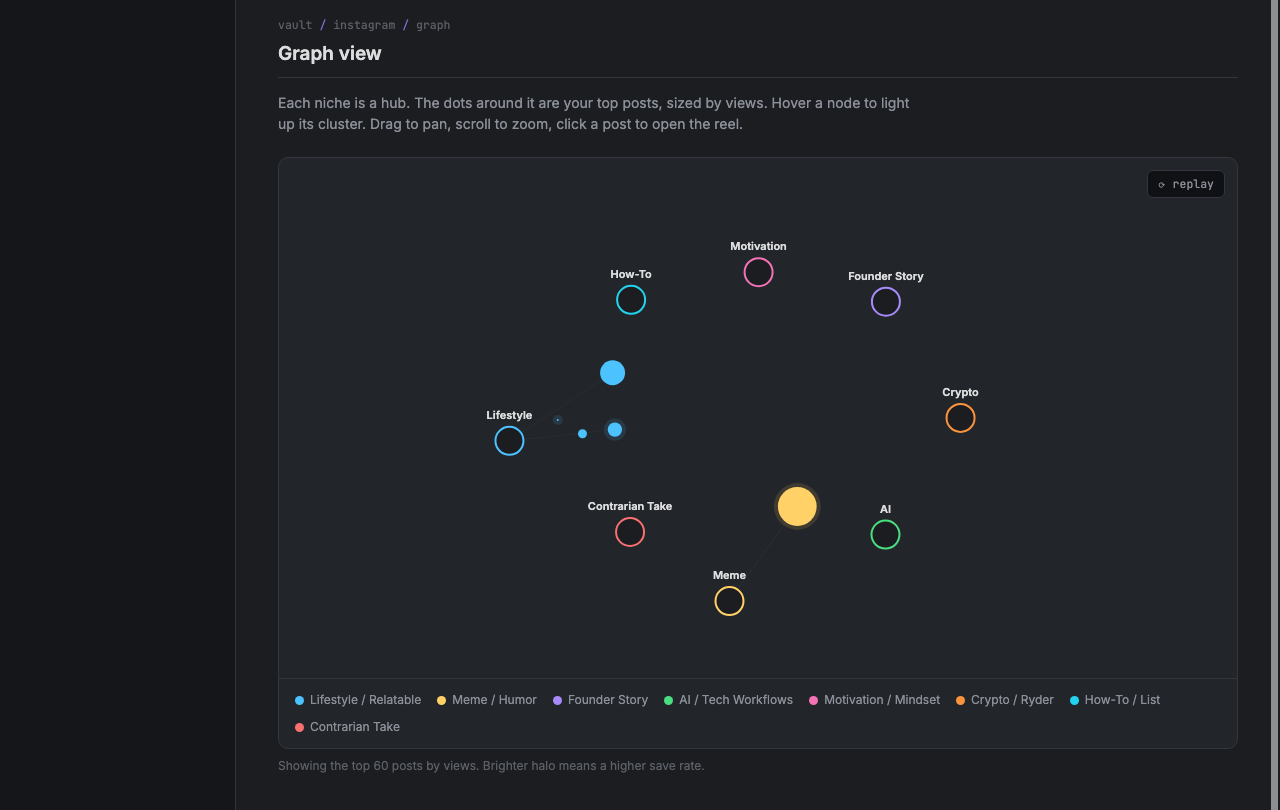
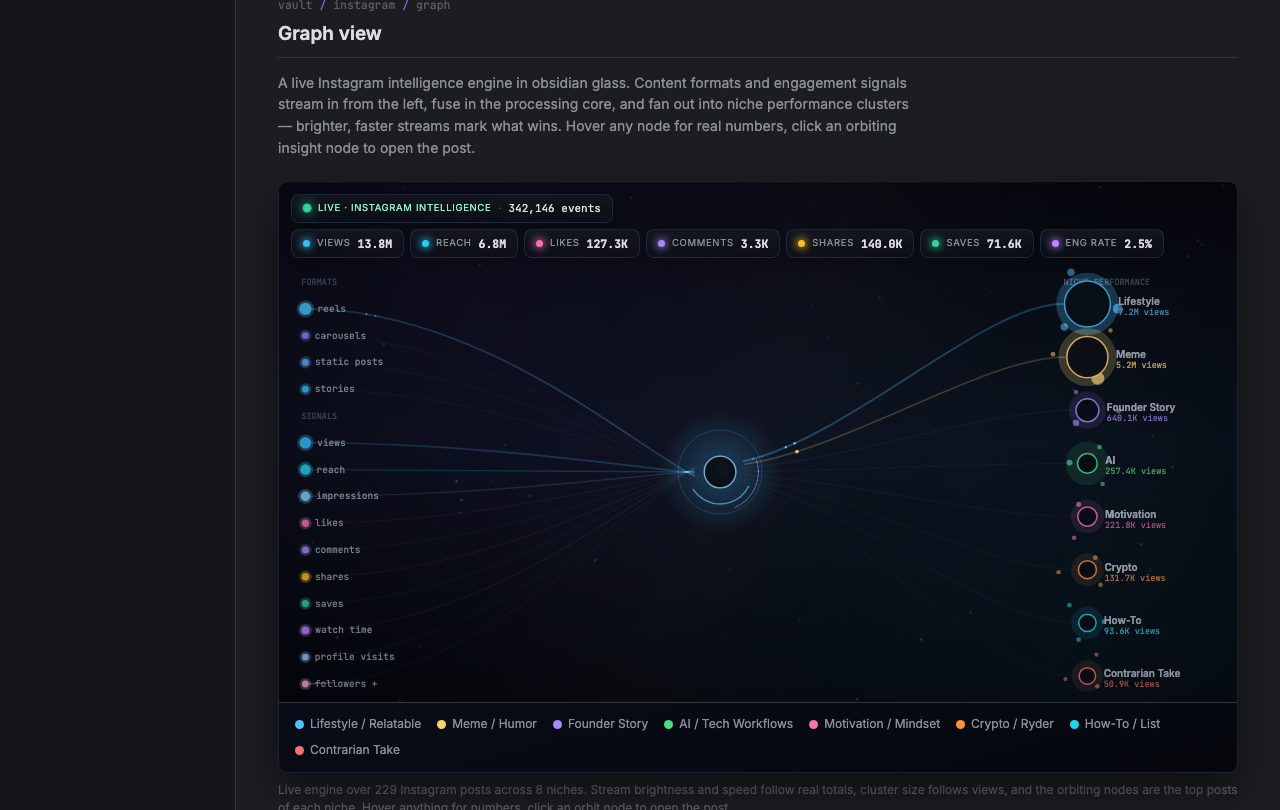
Document the intelligence engine in README, refresh graph screenshot
- README: rewrite Graph view section for the obsidian engine, note the
  all-time timeline default, add live GitHub Pages URL and deploy note
- Seed the HUD events counter with real lifetime engagement count
  (likes + comments + saves + shares) so the engine reads operational
- Replace docs/images/graph.png with a capture of the new dashboard

diff --git a/js/app.js b/js/app.js
@@ -272,7 +272,7 @@ document.getElementById('legend').innerHTML = Object.entries(NICHE_COLORS)
 
   /* ---- scene state ---- */
   let W, H, sources = [], clusters = [], headers = [], core = null, stars = [];
-  let clock = 0, lastT = null, events = 0, hoverItem = null;
+  let clock = 0, lastT = null, events = T.likes+T.comments+T.saves+T.shares, hoverItem = null;
   let cam = {x:0, y:0, z:1}, dragging = false, dragStart = null;
   const inbound = [], outbound = [], pulses = [], flashes = [];
   let inAcc = 0, outAcc = 0, pulseAcc = 0;

diff --git a/README.md b/README.md
@@ -4,7 +4,7 @@ An Instagram performance dashboard and 30-day content plan, built entirely on to
 
 This is [@louise.ivan](https://www.instagram.com/louise.ivan/)'s vault — 229 posts, 8 niches, 13.8M views. It's also a template. If you're a creator who wants the same dashboard for your own account, everything below shows you how it was built and how to rebuild it with your own numbers.
 
-Static site. No build step, no framework, no dependencies beyond Google Fonts. Open `index.html` and it runs.
+Static site. No build step, no framework, no dependencies beyond Google Fonts. Open `index.html` and it runs. Live at [louiseivan.github.io/louise-creator-vault](https://louiseivan.github.io/louise-creator-vault/).
 
 ![Overview](docs/images/overview.png)
 
@@ -29,9 +29,11 @@ It's dark, Obsidian-styled, one static HTML file, real data baked into a JS `con
 
 ## Sections
 
-**Overview** — stat cards (posts, views, saves, shares, followers, views-per-follower) and a weekly views timeline with a 90-day/all-time toggle and a calendar view that heat-shades every day by views.
+**Overview** — stat cards (posts, views, saves, shares, followers, views-per-follower) and a weekly views timeline (all-time by default, 90-day toggle) with a calendar view that heat-shades every day by views.
 
-**Graph view** — an animated force-directed graph in the style of Obsidian's link graph. Each niche is a hub; your top 60 posts orbit their niche hub, sized by views, with a brighter halo for a higher save rate. Drag to pan, scroll to zoom, click a post to open the reel.
+**Graph view** — a continuous, real-time Instagram intelligence engine in obsidian glass. Content formats (reels, carousels, static posts, stories) and engagement signals (views, reach, impressions, likes, comments, shares, saves, watch time, profile visits, followers) stream in from the left as thin glowing lines. Luminous particles flow through a pulsing processing core and fan out into niche performance clusters on the right, where the small nodes orbiting each cluster are that niche's top three posts.
+
+Everything is weighted by the real numbers: stream brightness, thickness, speed and particle rate follow lifetime totals; cluster size follows views; the halo follows save rate; the top niches gently pulse. A glass HUD pins live status with a ticking events counter and real lifetime totals (views, reach, likes, comments, shares, saves, engagement rate). The animation never stops — no timeline window, no reset point, no loop — with parallax depth, soft camera drift, and a static render for `prefers-reduced-motion`. Hover any source, cluster, or orbit node for the underlying numbers; click an orbit node to open the post; drag to pan, scroll to zoom. Streams without per-post API data (stories, profile visits, impressions, follows) run as dim ambient lines and say so in their tooltips.
 
 ![Graph view](docs/images/graph.png)
 
@@ -149,4 +151,6 @@ Static files, deploys anywhere:
 
 **Netlify, with git:** push this repo, then Netlify → Add new site → Import an existing project. Build command empty, publish directory `.`.
 
-Also works as-is on GitHub Pages, Vercel, or Cloudflare Pages.
+**GitHub Pages:** this repo deploys from `main` (root) and is live at [louiseivan.github.io/louise-creator-vault](https://louiseivan.github.io/louise-creator-vault/) — pushes to `main` redeploy automatically.
+
+Also works as-is on Vercel or Cloudflare Pages.